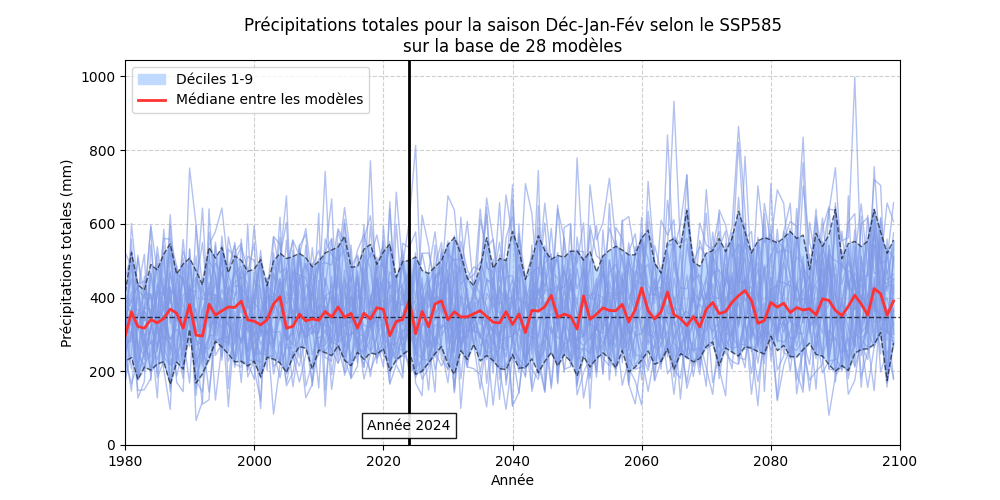
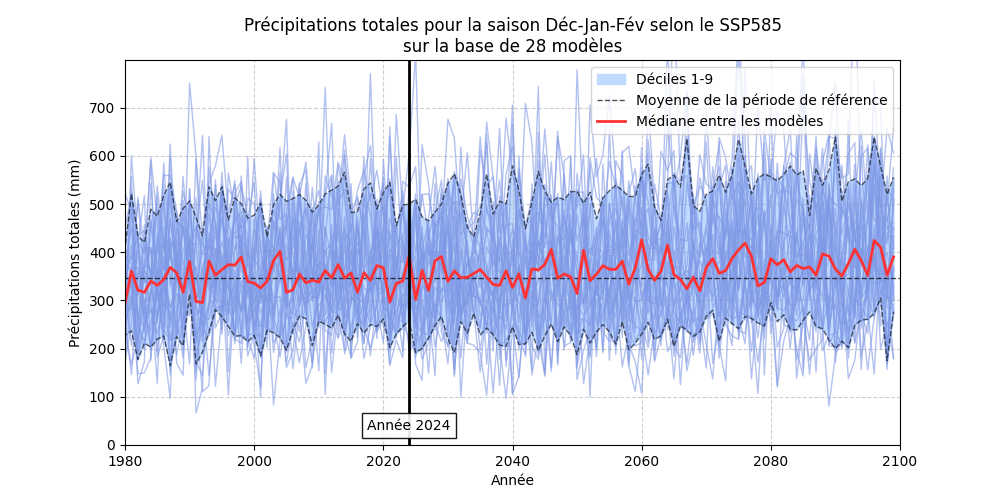
New plots

diff --git a/analysis/display_variable.py b/analysis/display_variable.py
@@ -82,7 +82,7 @@ def plot_graphics(result, variable, ssp, season):
 
     # Ligne de référence
     if "drawRefLine" in result["misc"]:
-        plt.axhline(y=result["misc"]["drawRefLine"], color="black", lw=1, linestyle="--", alpha=0.7)
+        plt.axhline(y=result["misc"]["drawRefLine"], color="black", lw=1, linestyle="--", alpha=0.7, label="Moyenne de la période de référence")
     
     # Médiane entre les modèles
     median = np.median(list(result["data"].values()), axis=0)
@@ -90,8 +90,16 @@ def plot_graphics(result, variable, ssp, season):
     
     # Limites du graphique
     plt.xlim(REF_YEARS[0], PROJECTION_YEARS[1]+1)
-    if "yMin" in result["misc"]:
-        plt.ylim(result["misc"]["yMin"], plt.gca().get_ylim()[1])
+    if "yLim" in result["misc"]:
+        if result["misc"]["yLim"][0] == "auto":
+            ylim1 = plt.gca().get_ylim()[0]
+        else:
+            ylim1 = result["misc"]["yLim"][0]
+        if result["misc"]["yLim"][1] == "auto":
+            ylim2 = plt.gca().get_ylim()[1]
+        else:
+            ylim2 = result["misc"]["yLim"][1]
+        plt.ylim(ylim1, ylim2)
 
     
     # On affiche un trait vertical vert pour signifier l'année 2024 (actuelle)
@@ -104,7 +112,7 @@ def plot_graphics(result, variable, ssp, season):
         plt.text(2024, plt.gca().get_ylim()[0] + 0.05 * (plt.gca().get_ylim()[1] - plt.gca().get_ylim()[0]),
                  "Année 2024", ha="center", va="center", color="black", bbox=dict(facecolor='white', alpha=0.9))
     
-    plt.legend()
+    plt.legend(loc="upper right")
     plt.grid(True, linestyle='--', alpha=0.6)
 
     # On créé le dossier de sauvegarde si il n'existe pas

diff --git a/analysis/data_operations.py b/analysis/data_operations.py
@@ -147,6 +147,11 @@ def process_pr(models_data, variable_name, season, season_name, threshold, ssp, 
         np.median([total_precipitation[model][ref_years[0] - years[0]:ref_years[1] - years[0] + 1]
                    for model in total_precipitation], axis=1))
     
+    # Calcul du 90e percentile
+    # On calcule les déciles pour chaque année
+    deciles = np.max(np.percentile([total_precipitation[model] for model in total_precipitation], [90], axis=0))
+
+    
     result.append({
         "short_title": f"evolution-absolue",
         "title": f"Précipitations totales pour la saison {season_name} selon le SSP{re.sub('ssp', '', ssp)}\n"+
@@ -157,7 +162,7 @@ def process_pr(models_data, variable_name, season, season_name, threshold, ssp, 
         "x_values": years,
         "misc":{
             "drawRefLine":mean_ref,
-            "yMin": 0,
+            "yLim": [0, deciles * 1.25],
         }
     })
     
@@ -165,6 +170,7 @@ def process_pr(models_data, variable_name, season, season_name, threshold, ssp, 
     for model in total_precipitation:
         total_precipitation[model] = 100 * np.array(total_precipitation[model]) / mean_ref
 
+    deciles *= 100 / mean_ref
 
     result.append({
         "short_title": f"evolution-relative",
@@ -176,7 +182,7 @@ def process_pr(models_data, variable_name, season, season_name, threshold, ssp, 
         "x_values": years,
         "misc":{
             "drawRefLine":100,
-            "yMin": 0,
+            "yLim": [0, deciles * 1.25],
         }
     })
 
